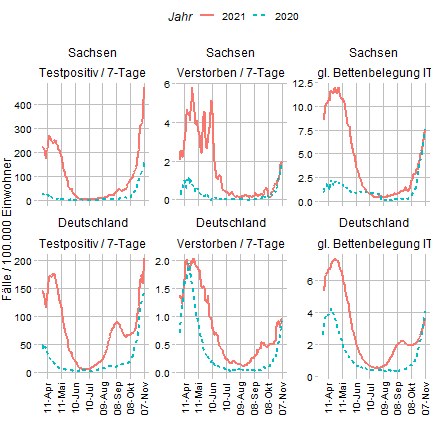
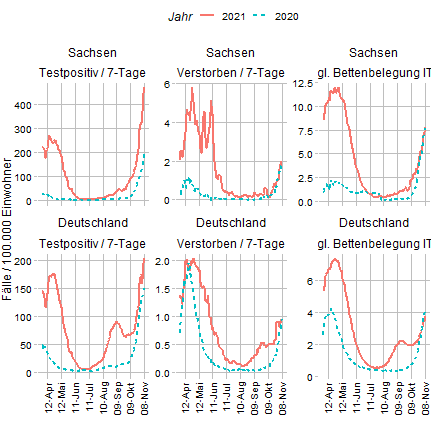
update

diff --git a/b19_s10_4_vaccNonVaccPlotData.html b/b19_s10_4_vaccNonVaccPlotData.html
@@ -1,0 +1,238 @@
+
+<!DOCTYPE html>
+<html>
+<head>
+<style type="text/css">
+.inline {
+  background-color: #f7f7f7;
+  border:solid 1px #B0B0B0;
+}
+.error {
+	font-weight: bold;
+	color: #FF0000;
+}
+.warning {
+	font-weight: bold;
+}
+.message {
+	font-style: italic;
+}
+.source, .output, .warning, .error, .message {
+	padding: 0 1em;
+  border:solid 1px #F7F7F7;
+}
+.source {
+  background-color: #f5f5f5;
+}
+.left {
+  text-align: left;
+}
+.right {
+  text-align: right;
+}
+.center {
+  text-align: center;
+}
+.hl.num {
+  color: #AF0F91;
+}
+.hl.str {
+  color: #317ECC;
+}
+.hl.com {
+  color: #AD95AF;
+  font-style: italic;
+}
+.hl.opt {
+  color: #000000;
+}
+.hl.std {
+  color: #585858;
+}
+.hl.kwa {
+  color: #295F94;
+  font-weight: bold;
+}
+.hl.kwb {
+  color: #B05A65;
+}
+.hl.kwc {
+  color: #55aa55;
+}
+.hl.kwd {
+  color: #BC5A65;
+  font-weight: bold;
+}
+</style>
+  <script src="https://yihui.name/media/js/center-images.js"></script>
+  <title>A Report Generated by knitr</title>
+</head>
+<body>
+
+  <p>This report is automatically generated with the R
+    package <a href="https://yihui.name/knitr/"><strong>knitr</strong></a>
+    (version <code class="knitr inline">1.36</code>)
+    .</p>
+
+<div class="chunk" id="auto-report"><div class="rcode"><div class="source"><pre class="knitr r"><span class="hl com"># Setup ----</span>
+<span class="hl kwd">rm</span><span class="hl std">(</span><span class="hl kwc">list</span> <span class="hl std">=</span> <span class="hl kwd">ls</span><span class="hl std">())</span>
+<span class="hl kwd">library</span><span class="hl std">(data.table)</span>
+<span class="hl kwd">library</span><span class="hl std">(ggplot2)</span>
+<span class="hl kwd">library</span><span class="hl std">(ggthemes)</span>
+<span class="hl kwd">library</span><span class="hl std">(magrittr)</span>
+<span class="hl kwd">library</span><span class="hl std">(scales)</span>
+<span class="hl kwd">require</span><span class="hl std">(toolboxH)</span>
+<span class="hl kwd">require</span><span class="hl std">(here)</span>
+<span class="hl kwd">require</span><span class="hl std">(lubridate)</span>
+<span class="hl kwd">require</span><span class="hl std">(stringr)</span>
+
+<span class="hl com"># data: https://www.coronavirus.sachsen.de/infektionsfaelle-in-sachsen-4151.html</span>
+<span class="hl com"># digitized using: https://apps.automeris.io/wpd/</span>
+
+<span class="hl std">dat_pre</span> <span class="hl kwb">&lt;-</span> <span class="hl kwd">read_excel2</span><span class="hl std">(</span><span class="hl kwd">here</span><span class="hl std">(</span><span class="hl str">&quot;data/211027_digitized_vaccination_data.xlsx&quot;</span><span class="hl std">),</span> <span class="hl kwc">col_names</span> <span class="hl std">=</span> <span class="hl kwd">paste0</span><span class="hl std">(</span><span class="hl str">&quot;V&quot;</span><span class="hl std">,</span> <span class="hl num">1</span><span class="hl opt">:</span><span class="hl num">4</span><span class="hl std">))</span> <span class="hl com"># credits to https://automeris.io/WebPlotDigitizer/</span>
+<span class="hl std">dat_pre</span> <span class="hl kwb">&lt;-</span> <span class="hl kwd">fread</span><span class="hl std">(</span><span class="hl kwd">here</span><span class="hl std">(</span><span class="hl str">&quot;data/wpd_datasets_211105&quot;</span><span class="hl std">),</span> <span class="hl kwc">header</span> <span class="hl std">= F)</span>
+<span class="hl kwd">names</span><span class="hl std">(dat_pre)</span> <span class="hl kwb">=</span> <span class="hl kwd">c</span><span class="hl std">(</span><span class="hl str">'nonvacc_x'</span><span class="hl std">,</span><span class="hl str">'nonvacc_y'</span><span class="hl std">,</span> <span class="hl str">'all_x'</span><span class="hl std">,</span> <span class="hl str">'all_y'</span><span class="hl std">,</span> <span class="hl str">'vacc_x'</span><span class="hl std">,</span> <span class="hl str">'vacc_y'</span> <span class="hl std">)</span>
+<span class="hl std">dat_pre2</span>  <span class="hl kwb">=</span> <span class="hl std">dat_pre[</span><span class="hl opt">-</span><span class="hl num">1</span><span class="hl opt">:-</span><span class="hl num">2</span><span class="hl std">]</span>
+<span class="hl std">dat_pre3</span> <span class="hl kwb">=</span> <span class="hl kwd">rbind</span><span class="hl std">(</span><span class="hl kwd">data.table</span><span class="hl std">(</span><span class="hl kwc">datum</span> <span class="hl std">= dat_pre2[,</span><span class="hl num">1</span><span class="hl std">]</span> <span class="hl opt">%&gt;%</span> <span class="hl kwd">unlist</span><span class="hl std">(),</span> <span class="hl kwc">testpositiv</span> <span class="hl std">=dat_pre2[,</span><span class="hl num">2</span><span class="hl std">]</span><span class="hl opt">%&gt;%</span> <span class="hl kwd">unlist</span><span class="hl std">(),</span> <span class="hl kwc">group</span> <span class="hl std">=</span> <span class="hl str">&quot;non_vacc&quot;</span><span class="hl std">),</span>
+                 <span class="hl kwd">data.table</span><span class="hl std">(</span><span class="hl kwc">datum</span> <span class="hl std">= dat_pre2[,</span><span class="hl num">3</span><span class="hl std">]</span><span class="hl opt">%&gt;%</span> <span class="hl kwd">unlist</span><span class="hl std">(),</span> <span class="hl kwc">testpositiv</span> <span class="hl std">=dat_pre2[,</span><span class="hl num">4</span><span class="hl std">]</span><span class="hl opt">%&gt;%</span> <span class="hl kwd">unlist</span><span class="hl std">(),</span> <span class="hl kwc">group</span> <span class="hl std">=</span> <span class="hl str">&quot;incidence&quot;</span><span class="hl std">),</span>
+                 <span class="hl kwd">data.table</span><span class="hl std">(</span><span class="hl kwc">datum</span> <span class="hl std">= dat_pre2[,</span><span class="hl num">5</span><span class="hl std">]</span><span class="hl opt">%&gt;%</span> <span class="hl kwd">unlist</span><span class="hl std">(),</span> <span class="hl kwc">testpositiv</span> <span class="hl std">=dat_pre2[,</span><span class="hl num">6</span><span class="hl std">]</span><span class="hl opt">%&gt;%</span> <span class="hl kwd">unlist</span><span class="hl std">(),</span> <span class="hl kwc">group</span> <span class="hl std">=</span> <span class="hl str">&quot;vacc&quot;</span><span class="hl std">)</span>
+                 <span class="hl std">)</span>
+<span class="hl std">dat_pre4</span> <span class="hl kwb">=</span> <span class="hl std">dat_pre3[datum</span><span class="hl opt">!=</span><span class="hl str">&quot;&quot;</span><span class="hl std">]</span>
+<span class="hl std">dat_pre4[, date</span><span class="hl kwb">:=</span> <span class="hl kwd">as_date</span><span class="hl std">(datum)]</span>
+<span class="hl std">dat_pre4[, count</span><span class="hl kwb">:=</span> <span class="hl kwd">as.numeric</span><span class="hl std">(testpositiv)]</span>
+<span class="hl std">dat_pre4</span> <span class="hl kwb">=</span> <span class="hl std">dat_pre4[count</span><span class="hl opt">&gt;</span><span class="hl num">0</span> <span class="hl opt">&amp;</span> <span class="hl std">date</span><span class="hl opt">&gt;</span> <span class="hl std">dat_pre4[group</span><span class="hl opt">==</span><span class="hl str">'vacc'</span><span class="hl std">,</span><span class="hl kwd">min</span><span class="hl std">(date)]</span> <span class="hl opt">&amp;</span> <span class="hl std">(group</span><span class="hl opt">==</span><span class="hl str">&quot;incidence&quot;</span> <span class="hl opt">&amp;</span> <span class="hl std">count</span> <span class="hl opt">&gt;</span> <span class="hl std">dat_pre4[group</span><span class="hl opt">!=</span><span class="hl str">&quot;incidence&quot;</span><span class="hl std">,</span><span class="hl kwd">max</span><span class="hl std">(count)])</span><span class="hl opt">==</span><span class="hl std">F]</span>
+
+<span class="hl com"># CAve MEldeverzug! SAchen SMS : Hinweise: Die Auswertung der 7-Tage-Inzidenz (Zahl der SARS-CoV-2-Neuinfektionen je 100.000 Einwohner in den vergangenen 7 Tagen) der Geimpften und nicht (vollständig) Geimpften erfolgt aktuell noch unter Vorbehalt</span>
+<span class="hl com"># create date column</span>
+<span class="hl std">dat</span> <span class="hl kwb">=</span> <span class="hl std">dat_pre4</span><span class="hl com">#[date &lt;= max(date)-7]</span>
+<span class="hl com"># round data to nearest full Int</span>
+<span class="hl std">dat</span><span class="hl opt">$</span><span class="hl std">count</span> <span class="hl kwb">&lt;-</span> <span class="hl kwd">gsub</span><span class="hl std">(dat</span><span class="hl opt">$</span><span class="hl std">count,</span> <span class="hl kwc">pattern</span> <span class="hl std">=</span> <span class="hl str">&quot;,&quot;</span><span class="hl std">,</span> <span class="hl kwc">replacement</span> <span class="hl std">=</span> <span class="hl str">&quot;.&quot;</span><span class="hl std">,</span> <span class="hl kwc">fixed</span> <span class="hl std">= T)</span>
+<span class="hl std">dat</span><span class="hl opt">$</span><span class="hl std">count</span> <span class="hl kwb">&lt;-</span> <span class="hl kwd">as.numeric</span><span class="hl std">(dat</span><span class="hl opt">$</span><span class="hl std">count)</span>
+<span class="hl std">dat</span><span class="hl opt">$</span><span class="hl std">count</span> <span class="hl kwb">&lt;-</span> <span class="hl kwd">round</span><span class="hl std">(dat</span><span class="hl opt">$</span><span class="hl std">count,</span> <span class="hl num">0</span><span class="hl std">)</span>
+
+<span class="hl std">dat[,group2</span> <span class="hl kwb">:=</span> <span class="hl kwd">ifelse</span><span class="hl std">(group</span><span class="hl opt">==</span><span class="hl str">&quot;vacc&quot;</span><span class="hl std">,</span> <span class="hl str">&quot;vollst. geimpft&quot;</span><span class="hl std">,</span>
+                      <span class="hl kwd">ifelse</span><span class="hl std">(group</span><span class="hl opt">==</span><span class="hl str">&quot;non_vacc&quot;</span><span class="hl std">,</span> <span class="hl str">&quot;unvollst. geimpft&quot;</span><span class="hl std">,</span>
+                             <span class="hl kwd">ifelse</span><span class="hl std">(group</span><span class="hl opt">==</span><span class="hl str">&quot;incidence&quot;</span><span class="hl std">,</span> <span class="hl str">&quot;Gesamtbevölkerung&quot;</span><span class="hl std">, group)))]</span>
+<span class="hl com"># quick preview</span>
+<span class="hl std">brk_vek</span> <span class="hl kwb">=</span> <span class="hl kwd">seq</span><span class="hl std">(</span><span class="hl kwd">max</span><span class="hl std">(dat</span><span class="hl opt">$</span><span class="hl std">date),</span> <span class="hl kwd">min</span><span class="hl std">(dat</span><span class="hl opt">$</span><span class="hl std">date),</span> <span class="hl opt">-</span><span class="hl num">7</span><span class="hl std">)</span>
+<span class="hl std">p1</span> <span class="hl kwb">=</span> <span class="hl kwd">ggplot</span><span class="hl std">(dat,</span>
+            <span class="hl kwd">aes</span><span class="hl std">(</span><span class="hl kwc">x</span> <span class="hl std">= date,</span>
+                <span class="hl kwc">y</span> <span class="hl std">= count,</span>
+                <span class="hl kwc">col</span> <span class="hl std">= group2</span>
+            <span class="hl std">)</span>
+<span class="hl std">)</span> <span class="hl opt">+</span>
+  <span class="hl kwd">ylab</span><span class="hl std">(</span><span class="hl str">&quot;Neuinfektion / 100.000 Einwohner\nje  Impfgruppe&quot;</span><span class="hl std">)</span><span class="hl opt">+</span>
+  <span class="hl com"># scale_y_continuous(breaks = pretty_breaks(10))+</span>
+  <span class="hl kwd">scale_y_log10</span><span class="hl std">(</span><span class="hl kwc">breaks</span> <span class="hl std">=</span> <span class="hl kwd">log_breaks</span><span class="hl std">(</span><span class="hl num">15</span><span class="hl std">))</span><span class="hl opt">+</span>
+  <span class="hl kwd">scale_x_date</span><span class="hl std">(</span><span class="hl kwc">breaks</span> <span class="hl std">= brk_vek,</span> <span class="hl kwc">labels</span> <span class="hl std">=</span> <span class="hl kwd">label_date</span><span class="hl std">(</span><span class="hl kwc">format</span> <span class="hl std">=</span> <span class="hl str">&quot;%d-%b-%y&quot;</span><span class="hl std">))</span><span class="hl opt">+</span>
+  <span class="hl kwd">theme_pander</span><span class="hl std">(</span><span class="hl kwc">base_size</span> <span class="hl std">=</span> <span class="hl num">16</span><span class="hl std">)</span><span class="hl opt">+</span>
+  <span class="hl kwd">theme</span><span class="hl std">(</span><span class="hl kwc">axis.text.x</span> <span class="hl std">=</span> <span class="hl kwd">element_text</span><span class="hl std">(</span><span class="hl kwc">angle</span> <span class="hl std">=</span> <span class="hl num">90</span><span class="hl std">,</span> <span class="hl kwc">vjust</span> <span class="hl std">=</span> <span class="hl num">0.4</span><span class="hl std">,</span> <span class="hl kwc">hjust</span> <span class="hl std">=</span> <span class="hl num">0</span><span class="hl std">),</span>
+        <span class="hl kwc">legend.position</span> <span class="hl std">=</span> <span class="hl str">&quot;top&quot;</span><span class="hl std">)</span><span class="hl opt">+</span>
+  <span class="hl kwd">geom_line</span><span class="hl std">(</span><span class="hl kwc">lwd</span> <span class="hl std">=</span> <span class="hl num">2</span><span class="hl std">,</span> <span class="hl kwc">alpha</span><span class="hl std">=</span><span class="hl num">0.7</span><span class="hl std">)</span> <span class="hl opt">+</span>
+  <span class="hl kwd">xlab</span><span class="hl std">(</span><span class="hl str">&quot;&quot;</span><span class="hl std">)</span> <span class="hl opt">+</span>
+  <span class="hl kwd">labs</span><span class="hl std">(</span><span class="hl kwc">color</span> <span class="hl std">=</span> <span class="hl str">&quot;&quot;</span><span class="hl std">)</span><span class="hl opt">+</span>
+  <span class="hl kwd">scale_color_manual</span><span class="hl std">(</span><span class="hl kwc">values</span> <span class="hl std">=</span> <span class="hl kwd">c</span><span class="hl std">(</span> <span class="hl str">&quot;black&quot;</span><span class="hl std">,</span><span class="hl kwd">hue_pal</span><span class="hl std">()(</span><span class="hl num">3</span><span class="hl std">)[</span><span class="hl num">2</span><span class="hl std">],</span> <span class="hl kwd">hue_pal</span><span class="hl std">()(</span><span class="hl num">3</span><span class="hl std">)[</span><span class="hl num">3</span><span class="hl std">]))</span> <span class="hl opt">+</span>
+  <span class="hl kwd">geom_line</span><span class="hl std">(</span><span class="hl kwc">data</span> <span class="hl std">= dat[group</span> <span class="hl opt">==</span><span class="hl str">&quot;incidence&quot;</span><span class="hl std">],</span><span class="hl kwc">lwd</span> <span class="hl std">=</span> <span class="hl num">2</span><span class="hl std">,</span> <span class="hl kwc">alpha</span><span class="hl std">=</span><span class="hl num">1</span><span class="hl std">,</span> <span class="hl kwc">lty</span> <span class="hl std">=</span> <span class="hl num">3</span><span class="hl std">,</span> <span class="hl kwc">col</span> <span class="hl std">=</span> <span class="hl str">&quot;black&quot;</span><span class="hl std">)</span> <span class="hl opt">+</span>
+  <span class="hl kwd">geom_ribbon</span><span class="hl std">(</span><span class="hl kwd">aes</span><span class="hl std">(</span><span class="hl kwc">xmin</span> <span class="hl std">=</span>  <span class="hl kwd">max</span><span class="hl std">(date)</span><span class="hl opt">-</span><span class="hl num">7</span><span class="hl std">,</span> <span class="hl kwc">xmax</span> <span class="hl std">=</span>  <span class="hl kwd">max</span><span class="hl std">(date)),</span> <span class="hl kwc">fill</span> <span class="hl std">=</span> <span class="hl str">&quot;grey55&quot;</span><span class="hl std">,</span> <span class="hl kwc">alpha</span> <span class="hl std">=</span> <span class="hl num">0.7</span><span class="hl std">,</span> <span class="hl kwc">col</span> <span class="hl std">=</span> <span class="hl str">&quot;grey55&quot;</span><span class="hl std">)</span> <span class="hl opt">+</span>
+  <span class="hl kwd">annotate</span><span class="hl std">(</span><span class="hl kwc">geom</span> <span class="hl std">=</span> <span class="hl str">'text'</span><span class="hl std">,</span> <span class="hl kwc">x</span> <span class="hl std">=</span> <span class="hl kwd">as_date</span><span class="hl std">(</span><span class="hl str">&quot;2021/10/14&quot;</span><span class="hl std">),</span> <span class="hl kwc">y</span> <span class="hl std">=</span> <span class="hl num">10</span><span class="hl std">,</span> <span class="hl kwc">label</span> <span class="hl std">=</span> <span class="hl str">&quot;Grau: Daten noch unvollständig,\nNachmeldungen erwartet&quot;</span><span class="hl std">,</span> <span class="hl kwc">col</span> <span class="hl std">=</span> <span class="hl str">&quot;grey33&quot;</span><span class="hl std">,</span> <span class="hl kwc">fontface</span> <span class="hl std">=</span> <span class="hl str">&quot;bold&quot;</span><span class="hl std">)</span>
+
+
+
+<span class="hl std">p1</span>
+</pre></div>
+</div><div class="rimage center"><img src="figure/b19-s10-4-vaccNonVaccPlotData-Rhtmlauto-report-1.png" title="plot of chunk auto-report" alt="plot of chunk auto-report" class="plot" /></div><div class="rcode">
+<div class="source"><pre class="knitr r"><span class="hl com"># groups:</span>
+<span class="hl com"># vacc = vollständig geimpfte</span>
+<span class="hl com"># non_vacc = nicht (vollständig) geimpfte</span>
+<span class="hl com"># group = 7-Tage Inzidenz gesamt</span>
+
+<span class="hl com"># save</span>
+
+<span class="hl kwd">jpeg</span><span class="hl std">(</span><span class="hl kwd">here</span><span class="hl std">(</span><span class="hl str">'results/b19_s10_4_vaccNonVaccPlotData.jpeg'</span><span class="hl std">),</span> <span class="hl num">5</span><span class="hl std">,</span><span class="hl num">5</span><span class="hl std">,</span> <span class="hl kwc">quality</span> <span class="hl std">=</span> <span class="hl num">100</span><span class="hl std">,</span> <span class="hl kwc">res</span> <span class="hl std">=</span> <span class="hl num">150</span><span class="hl std">,</span>  <span class="hl kwc">units</span> <span class="hl std">=</span> <span class="hl str">&quot;in&quot;</span><span class="hl std">)</span>
+<span class="hl std">p1</span>
+<span class="hl kwd">dev.off</span><span class="hl std">()</span>
+</pre></div>
+<div class="output"><pre class="knitr r">## RStudioGD 
+##         2
+</pre></div>
+<div class="source"><pre class="knitr r"><span class="hl kwd">sessionInfo</span><span class="hl std">()</span>
+</pre></div>
+</div><div class="rimage center"><img src="figure/b19-s10-4-vaccNonVaccPlotData-Rhtmlauto-report-2.png" title="plot of chunk auto-report" alt="plot of chunk auto-report" class="plot" /></div><div class="rcode">
+<div class="output"><pre class="knitr r">## R version 4.1.1 (2021-08-10)
+## Platform: x86_64-w64-mingw32/x64 (64-bit)
+## Running under: Windows 10 x64 (build 19043)
+## 
+## Matrix products: default
+## 
+## locale:
+## [1] LC_COLLATE=German_Germany.1252  LC_CTYPE=German_Germany.1252   
+## [3] LC_MONETARY=German_Germany.1252 LC_NUMERIC=C                   
+## [5] LC_TIME=German_Germany.1252    
+## 
+## attached base packages:
+## [1] stats     graphics  grDevices utils     datasets  methods   base     
+## 
+## other attached packages:
+##  [1] toolboxH_0.2.16    eulerr_6.1.1       testthat_3.1.0     stringr_1.4.0     
+##  [5] readxl_1.3.1       RColorBrewer_1.1-2 png_0.1-7          fdrtool_1.2.16    
+##  [9] R.utils_2.11.0     R.oo_1.24.0        R.methodsS3_1.8.1  lubridate_1.8.0   
+## [13] here_1.0.1         scales_1.1.1       magrittr_2.0.1     ggthemes_4.2.4    
+## [17] ggplot2_3.3.5      data.table_1.14.2 
+## 
+## loaded via a namespace (and not attached):
+##  [1] Rcpp_1.0.7       cellranger_1.1.0 compiler_4.1.1   pillar_1.6.3     highr_0.9       
+##  [6] tools_4.1.1      digest_0.6.28    evaluate_0.14    lifecycle_1.0.1  tibble_3.1.5    
+## [11] gtable_0.3.0     pkgconfig_2.0.3  rlang_0.4.11     curl_4.3.2       xfun_0.26       
+## [16] fastmap_1.1.0    withr_2.4.2      dplyr_1.0.7      knitr_1.36       generics_0.1.0  
+## [21] vctrs_0.3.8      rprojroot_2.0.2  tidyselect_1.1.1 grid_4.1.1       glue_1.4.2      
+## [26] R6_2.5.1         fansi_0.5.0      rmarkdown_2.11   farver_2.1.0     purrr_0.3.4     
+## [31] htmltools_0.5.2  ellipsis_0.3.2   colorspace_2.0-2 labeling_0.4.2   utf8_1.2.2      
+## [36] stringi_1.7.5    munsell_0.5.0    crayon_1.4.1
+</pre></div>
+</div></div>
+
+  <p>The R session information (including the OS info, R version and all
+    packages used):</p>
+
+<div class="chunk" id="session-info"><div class="rcode"><div class="source"><pre class="knitr r">    <span class="hl kwd">sessionInfo</span><span class="hl std">()</span>
+</pre></div>
+<div class="output"><pre class="knitr r">## R version 4.1.1 (2021-08-10)
+## Platform: x86_64-w64-mingw32/x64 (64-bit)
+## Running under: Windows 10 x64 (build 19043)
+## 
+## Matrix products: default
+## 
+## locale:
+## [1] LC_COLLATE=German_Germany.1252  LC_CTYPE=German_Germany.1252   
+## [3] LC_MONETARY=German_Germany.1252 LC_NUMERIC=C                   
+## [5] LC_TIME=German_Germany.1252    
+## 
+## attached base packages:
+## [1] stats     graphics  grDevices utils     datasets  methods   base     
+## 
+## other attached packages:
+##  [1] toolboxH_0.2.16    eulerr_6.1.1       testthat_3.1.0     stringr_1.4.0     
+##  [5] readxl_1.3.1       RColorBrewer_1.1-2 png_0.1-7          fdrtool_1.2.16    
+##  [9] R.utils_2.11.0     R.oo_1.24.0        R.methodsS3_1.8.1  lubridate_1.8.0   
+## [13] here_1.0.1         scales_1.1.1       magrittr_2.0.1     ggthemes_4.2.4    
+## [17] ggplot2_3.3.5      data.table_1.14.2 
+## 
+## loaded via a namespace (and not attached):
+##  [1] Rcpp_1.0.7       cellranger_1.1.0 compiler_4.1.1   pillar_1.6.3     highr_0.9       
+##  [6] tools_4.1.1      digest_0.6.28    evaluate_0.14    lifecycle_1.0.1  tibble_3.1.5    
+## [11] gtable_0.3.0     pkgconfig_2.0.3  rlang_0.4.11     curl_4.3.2       xfun_0.26       
+## [16] fastmap_1.1.0    withr_2.4.2      dplyr_1.0.7      knitr_1.36       generics_0.1.0  
+## [21] vctrs_0.3.8      rprojroot_2.0.2  tidyselect_1.1.1 grid_4.1.1       glue_1.4.2      
+## [26] R6_2.5.1         fansi_0.5.0      rmarkdown_2.11   farver_2.1.0     purrr_0.3.4     
+## [31] htmltools_0.5.2  ellipsis_0.3.2   colorspace_2.0-2 labeling_0.4.2   utf8_1.2.2      
+## [36] stringi_1.7.5    munsell_0.5.0    crayon_1.4.1
+</pre></div>
+<div class="source"><pre class="knitr r">    <span class="hl kwd">Sys.time</span><span class="hl std">()</span>
+</pre></div>
+<div class="output"><pre class="knitr r">## [1] &quot;2021-11-08 13:31:49 CET&quot;
+</pre></div>
+</div></div>
+
+
+</body>
+</html>

diff --git a/b19_s14_2_yearComparisonGerSax_211028.html b/b19_s14_2_yearComparisonGerSax_211028.html
@@ -124,13 +124,13 @@
 </pre></div>
 <div class="output"><pre class="knitr r">## .
 ## ERWACHSENE     KINDER 
-##        598        598
+##        599        599
 </pre></div>
 <div class="source"><pre class="knitr r"><span class="hl std">dat_icu_sax</span><span class="hl opt">$</span><span class="hl std">Behandlungsgruppe</span> <span class="hl opt">%&gt;%</span> <span class="hl std">table</span>
 </pre></div>
 <div class="output"><pre class="knitr r">## .
 ## ERWACHSENE 
-##       9568
+##       9584
 </pre></div>
 <div class="source"><pre class="knitr r"><span class="hl com"># clean germany data</span>
 <span class="hl std">dat_icu_ger</span> <span class="hl kwb">&lt;-</span> <span class="hl std">dat_icu_ger[Behandlungsgruppe</span> <span class="hl opt">==</span> <span class="hl str">&quot;ERWACHSENE&quot;</span><span class="hl std">,</span> <span class="hl kwd">.</span><span class="hl std">(</span><span class="hl kwc">date</span> <span class="hl std">= Datum,</span>
@@ -256,7 +256,7 @@
 <span class="hl std">maxdate</span> <span class="hl kwb">=</span> <span class="hl kwd">max</span><span class="hl std">(dat</span><span class="hl opt">$</span><span class="hl std">date)</span>
 <span class="hl std">maxdate</span>
 </pre></div>
-<div class="output"><pre class="knitr r">## [1] &quot;2021-11-07&quot;
+<div class="output"><pre class="knitr r">## [1] &quot;2021-11-08&quot;
 </pre></div>
 <div class="source"><pre class="knitr r"><span class="hl std">dat[date</span> <span class="hl opt">&gt;=</span> <span class="hl str">&quot;2020-04-01&quot;</span> <span class="hl opt">&amp;</span> <span class="hl std">date</span> <span class="hl opt">&lt;=</span> <span class="hl std">(maxdate</span><span class="hl opt">-</span><span class="hl num">365</span><span class="hl std">), year</span> <span class="hl kwb">:=</span> <span class="hl str">&quot;2020&quot;</span><span class="hl std">]</span>
 
@@ -270,7 +270,7 @@
 <span class="hl std">dat[,year</span><span class="hl kwb">:=</span><span class="hl kwd">factor</span><span class="hl std">(year,</span><span class="hl kwc">levels</span> <span class="hl std">=</span> <span class="hl kwd">c</span><span class="hl std">(</span><span class="hl num">2021</span><span class="hl std">,</span> <span class="hl num">2020</span><span class="hl std">))]</span>
 <span class="hl std">dat</span> <span class="hl opt">%&gt;%</span> <span class="hl std">str</span>
 </pre></div>
-<div class="output"><pre class="knitr r">## Classes 'data.table' and 'data.frame':	2652 obs. of  8 variables:
+<div class="output"><pre class="knitr r">## Classes 'data.table' and 'data.frame':	2660 obs. of  8 variables:
 ##  $ date       : Date, format: &quot;2021-04-01&quot; &quot;2021-04-02&quot; ...
 ##  $ area       : chr  &quot;Free State of Saxony&quot; &quot;Free State of Saxony&quot; &quot;Free State of Saxony&quot; &quot;Free State of Saxony&quot; ...
 ##  $ type       : chr  &quot;Case&quot; &quot;Case&quot; &quot;Case&quot; &quot;Case&quot; ...
@@ -360,10 +360,8 @@
 ## Warnings found so far:
 </pre></div>
 <div class="output"><pre class="knitr r">## 
-##                                                  NaNs produced 
-##                                                              1 
-## Transformation introduced infinite values in continuous y-axis 
-##                                                              1
+## cannot open file 'C:/Users/IMISE/OneDrive/IMISE/R/modellclub/covid19_modellierung/_bulletin/LEipzigPlus_19/IMISE-Epidemiologisches-Bulletin-19/scripte/b19_s10_3_vaccNonVaccPlotData.R': No such file or directory 
+##                                                                                                                                                                                                                  1
 </pre></div>
 <div class="message"><pre class="knitr r">## ==================================================================================
 </pre></div>
@@ -448,7 +446,7 @@
 </pre></div>
 <div class="source"><pre class="knitr r">    <span class="hl kwd">Sys.time</span><span class="hl std">()</span>
 </pre></div>
-<div class="output"><pre class="knitr r">## [1] &quot;2021-11-08 11:56:15 CET&quot;
+<div class="output"><pre class="knitr r">## [1] &quot;2021-11-08 13:31:55 CET&quot;
 </pre></div>
 </div></div>
 

diff --git a/b19_s06_3_ageStratIncidencePlot_211014.html b/b19_s06_3_ageStratIncidencePlot_211014.html
@@ -445,7 +445,7 @@
 </pre></div>
 <div class="source"><pre class="knitr r">    <span class="hl kwd">Sys.time</span><span class="hl std">()</span>
 </pre></div>
-<div class="output"><pre class="knitr r">## [1] &quot;2021-11-08 11:56:06 CET&quot;
+<div class="output"><pre class="knitr r">## [1] &quot;2021-11-08 13:31:48 CET&quot;
 </pre></div>
 </div></div>
 

diff --git a/b19_s11_2_farrington_rki.html b/b19_s11_2_farrington_rki.html
@@ -194,7 +194,7 @@
 </pre></div>
 <div class="source"><pre class="knitr r">    <span class="hl kwd">Sys.time</span><span class="hl std">()</span>
 </pre></div>
-<div class="output"><pre class="knitr r">## [1] &quot;2021-11-08 11:56:08 CET&quot;
+<div class="output"><pre class="knitr r">## [1] &quot;2021-11-08 13:31:50 CET&quot;
 </pre></div>
 </div></div>
 
